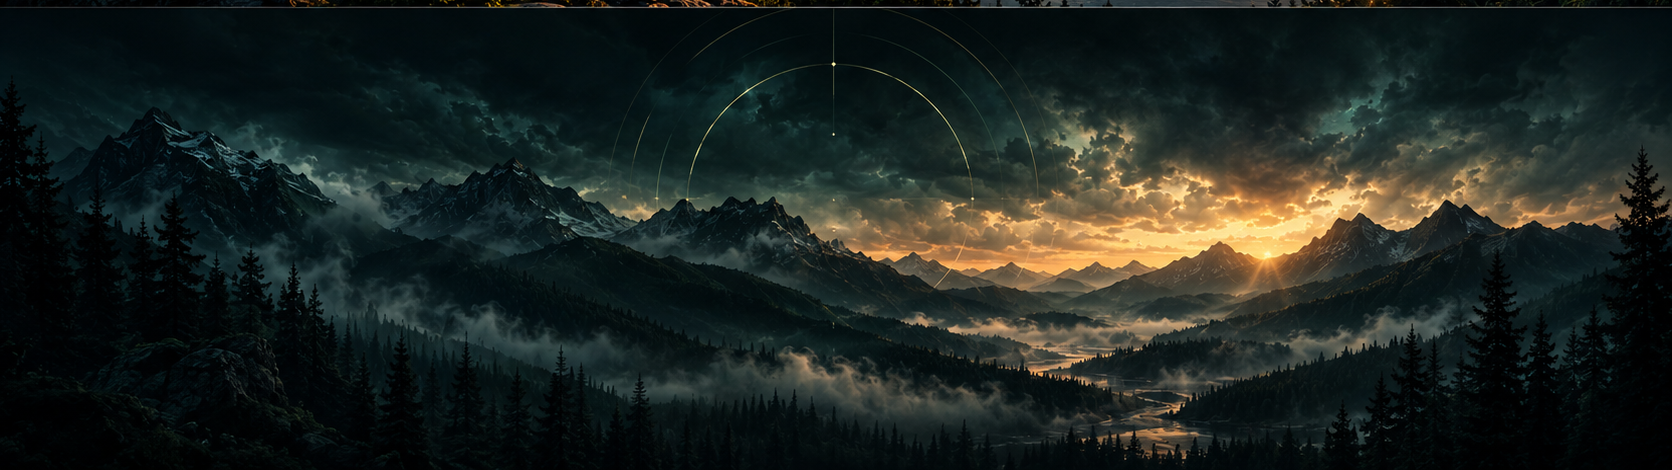
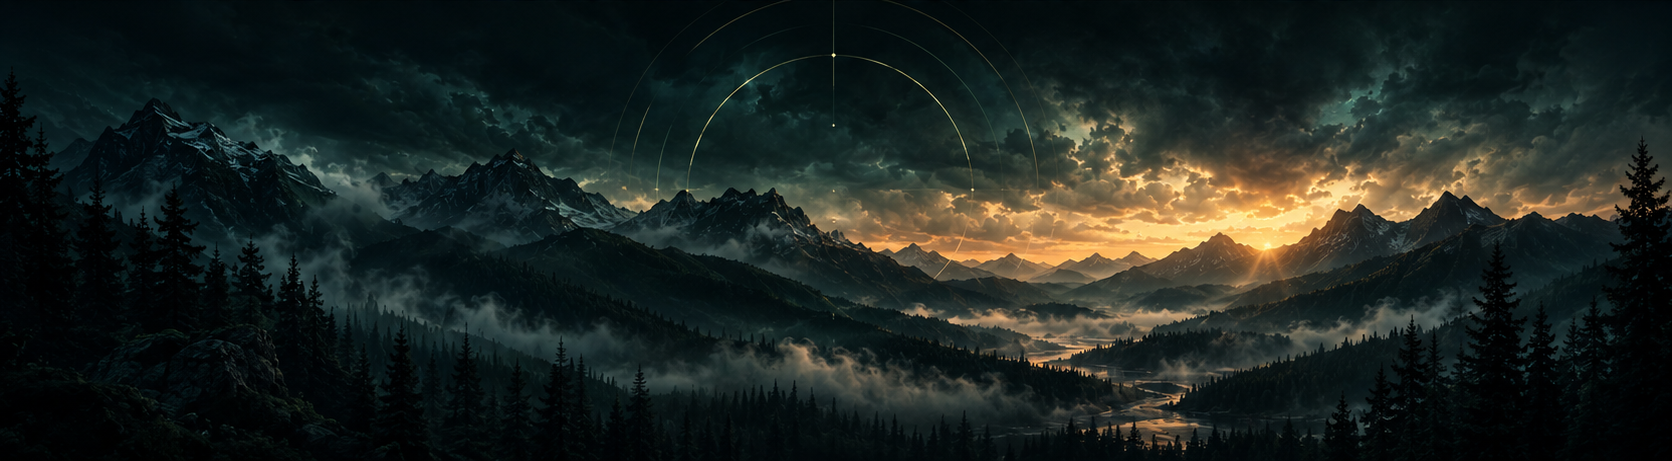
Fix stale homepage screenshot cache and remove NCC right-edge/divider top-edge artifacts
Home Security and Network Command Center showcase screenshots on the
homepage still showed an edge artifact even though the detail pages (which
share the exact same ScreenshotFrame component, props, and projects.ts
data) rendered clean. Comparison across component usage, computed
aspect-ratio, and currentSrc/srcset found no code-level or prop-level
divergence between homepage and detail page for either project, pointing
to a stale cached optimized image variant rather than a rendering bug.

Renamed both screenshot assets (home-security.png -> home-security-v2.png,
network-command-center.png -> network-command-center-v2.png) and updated
their `image` paths in projects.ts, forcing every caching layer (Next.js
image optimizer, browser, CDN) to fetch fresh bytes under a new URL rather
than serving a stale response for the old path.

While re-validating pixel-by-pixel against the live-rendered output, found
a second, previously unaddressed defect baked into
network-command-center-v2.png itself: a ~15px solid near-white vertical
strip along the entire right edge (x=1885-1899 of 1900px width), distinct
from the earlier left-edge crop already fixed in 2fe673f. Cropped it out,
bringing the file to 1885x892.

Also fixed a separate, unrelated baked-in artifact on
section-divider-background.png (the "Real problems. Practical systems.
Continuous improvement." cinematic divider): a ~2px anomalous bright
horizontal line at y=6-7 of a 470px-tall image, consistent across the
[…]

diff --git a/src/data/projects.ts b/src/data/projects.ts
@@ -218,7 +218,7 @@ export const projects: Project[] = [
       "Expand known-vehicle and authorized-visitor handling for less common scenarios (deliveries, service visits).",
       "Tighten AI verification accuracy to further reduce false suppressions and false escalations.",
     ],
-    image: "/portfolio/projects/home-security.png",
+    image: "/portfolio/projects/home-security-v2.png",
     imageAlt:
       "Home Security dashboard: security status HOME with automatic presence detection, 5/5 cameras online, 0 active alerts, and AI verification controls.",
     imageFit: "contain",
@@ -291,7 +291,7 @@ export const projects: Project[] = [
       "Extend topology visibility as more nodes and services are added.",
       "Continue consolidating the command-center view as the single source of truth for infrastructure state.",
     ],
-    image: "/portfolio/projects/network-command-center.png",
+    image: "/portfolio/projects/network-command-center-v2.png",
     imageAlt:
       "Network Command Center dashboard: network score 100/Excellent, AI-generated network analyst summary, and healthy status across internet, DNS, devices, and security.",
     imageFit: "contain",
